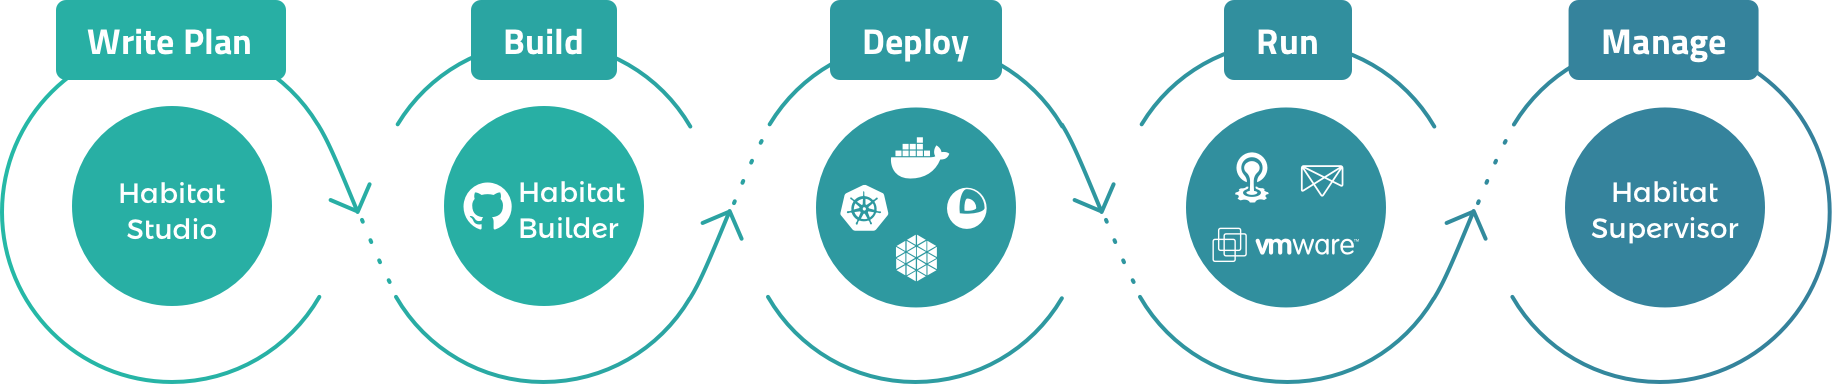
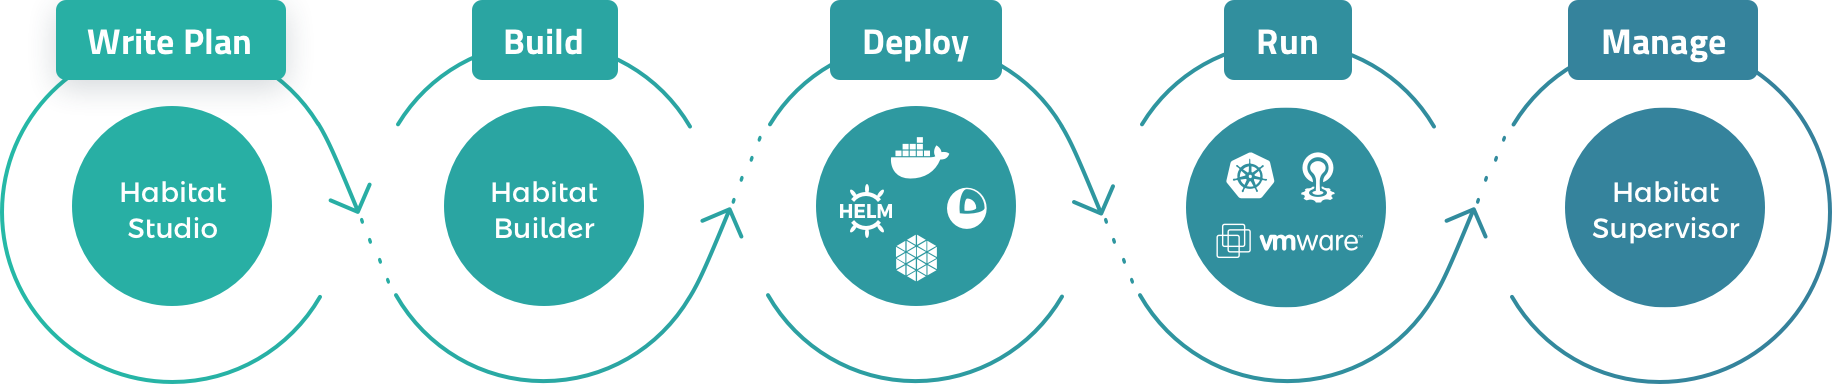
fix wrong links in README, update flow diagram to the latest version on the website

diff --git a/README.md b/README.md
@@ -38,33 +38,29 @@ Graphics that will help you and your team better understand the concepts and how
 Try the interactive infographics on the [website](http://habitat.sh#reference-diagram)!
 
 ### How Habitat Works
-* [Architecture Overview](https://www.habitat.sh/images/infographics/habitat-architecture-overview-7e40c4b3.png)
-* [Initial Package Build Flow](https://www.habitat.sh/images/infographics/habitat-initial-package-build-flow-43ccb287.png)
-* [Application Rebuild Flow](https://www.habitat.sh/images/infographics/habitat-application-rebuild-flow-10c48cfb.png)
-* [Dependency Update Flow](https://www.habitat.sh/images/infographics/habitat-dependency-update-flow-f4895875.png
-)
-* [Promote Packages Through Channels](https://www.habitat.sh/images/infographics/habitat-promote-packages-through-channels-06506fd0.png)
+* [Architecture Overview](https://www.habitat.sh/images/infographics/habitat-architecture-overview-3678af94.png)
+* [Initial Package Build Flow](https://www.habitat.sh/images/infographics/habitat-initial-package-build-flow-9c664414.png)
+* [Application Rebuild Flow](https://www.habitat.sh/images/infographics/habitat-application-rebuild-flow-3259186b.png)
+* [Dependency Update Flow](https://www.habitat.sh/images/infographics/habitat-dependency-update-flow-7a450e58.png)
+* [Promote Packages Through Channels](https://www.habitat.sh/images/infographics/habitat-promote-packages-through-channels-1fe654c7.png)
 
 ### Habitat and **Docker**
-* [Initial Docker Container Publishing Flow](https://www.habitat.sh/images/infographics/habitat-initial-docker-container-publishing-flow-1f2ba489.png)
-* [Automated Docker Container Publishing Flow](https://www.habitat.sh/images/infographics/habitat-automated-docker-container-publishing-flow-3cdf9f91.png
-)
+* [Initial Docker Container Publishing Flow](https://www.habitat.sh/images/infographics/habitat-initial-docker-container-publishing-flow-75704ad7.png)
+* [Automated Docker Container Publishing Flow](https://www.habitat.sh/images/infographics/habitat-automated-docker-container-publishing-flow-b59adf86.png)
 
 ### Habitat and **Kubernetes**
-* [Three Tiers of Service Deployment](https://www.habitat.sh/images/infographics/habitat-and-kubernetes-three-tiers-of-service-deployment-8c85b4ca.png)
-* [Deploy Services to Kubernetes with Habitat](https://www.habitat.sh/images/infographics/deploy-services-to-kubernetes-with-habitat-flow-567c4ce9.png)
+* [Three Tiers of Service Deployment](https://www.habitat.sh/images/infographics/habitat-and-kubernetes-three-tiers-of-service-deployment-fdf10879.png)
+* [Deploy Services to Kubernetes with Habitat](https://www.habitat.sh/images/infographics/deploy-services-to-kubernetes-with-habitat-flow-6ddca9cd.png)
 
 *View all diagrams in [Docs](https://www.habitat.sh/docs/diagrams/)*
 
 ## Hands-on Demos
 Choose any topic to begin learning how Habitat can help your team build, deploy, and manage all of your applications - both new and legacy - in a cloud-native way:
-* [Habitat Packaging System Demo (15 mins)](https://www.habitat.sh/demo/packaging-system/steps/1/)
-* [Habitat Build System Demo (15 mins)](https://www.habitat.sh/demo/packaging-system/steps/1/)
-* [Habitat Process Supervisor Demo (15 mins)](https://www.habitat.sh/demo/packaging-system/steps/1/)
+* [Package a sample application (15 mins)](https://www.habitat.sh/demo/packaging-system/steps/1/)
+* [Set up automated deployments (20 mins)](https://www.habitat.sh/demo/build-system/steps/1/)
+* [Auto-update a running application (15 mins)](https://www.habitat.sh/demo/process-supervisor/steps/1/)
 
 *View all demos and tutorials in [Learn](https://www.habitat.sh/learn/)*
-
-
 
 
 ## Install
